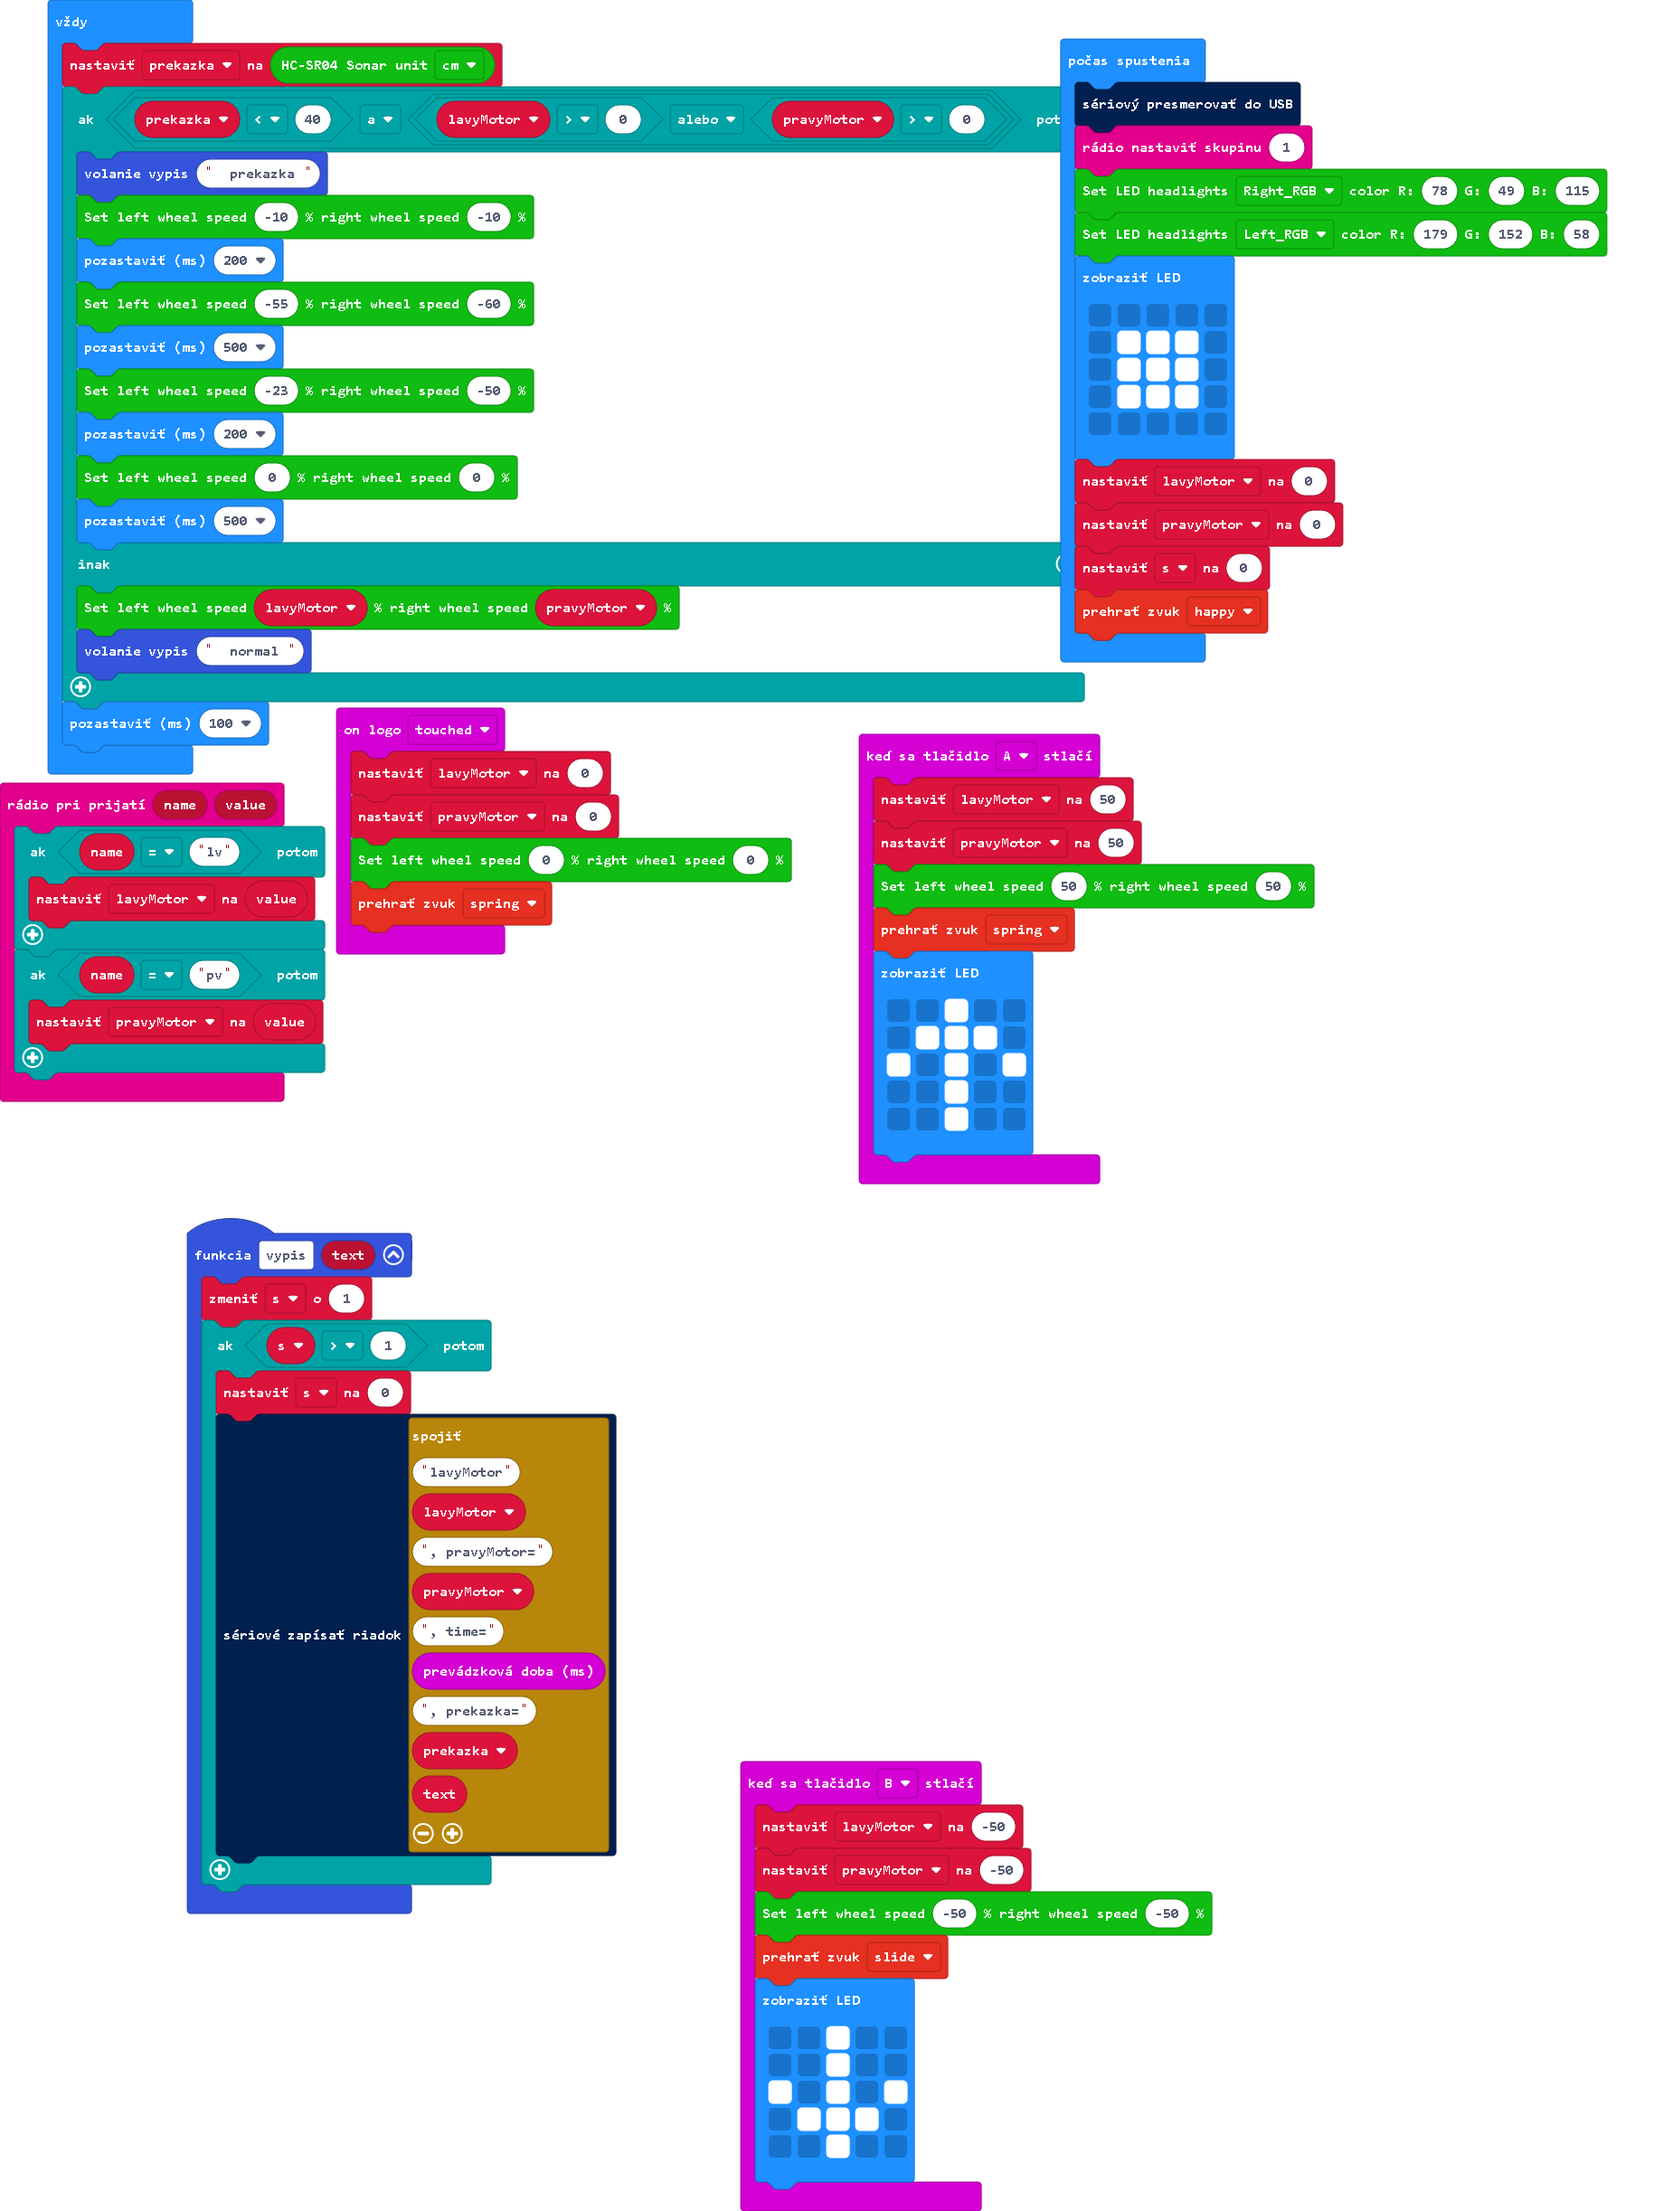
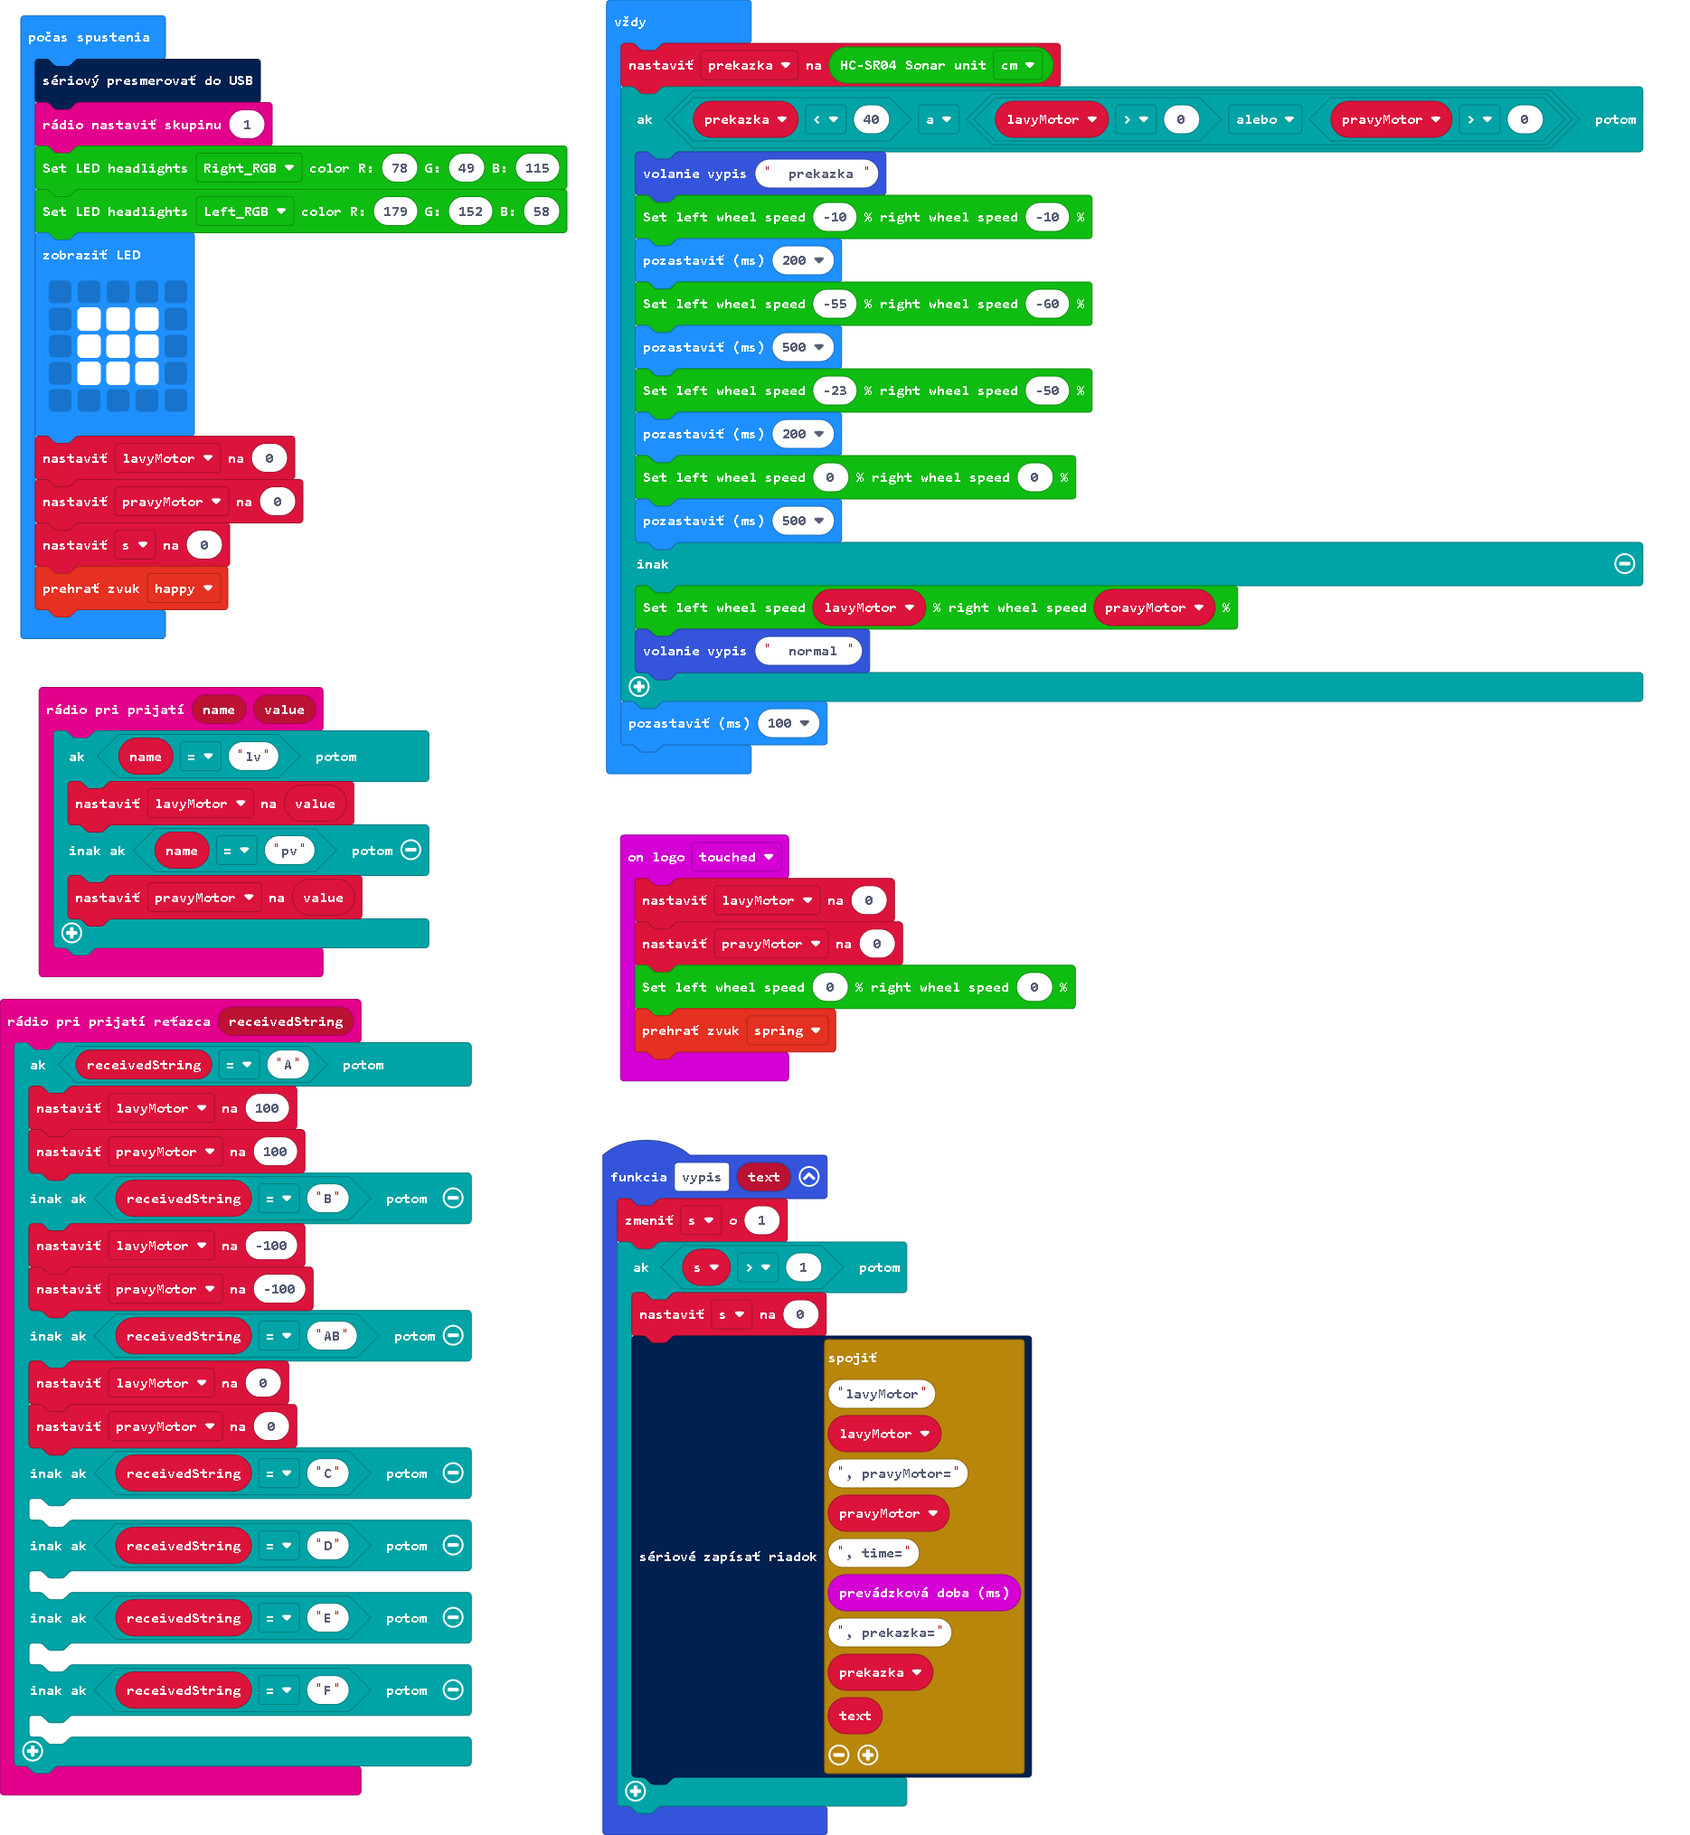
a2

diff --git a/main.ts b/main.ts
@@ -1,16 +1,3 @@
-input.onButtonPressed(Button.A, function () {
-    lavyMotor = 50
-    pravyMotor = 50
-    cuteBot.motors(50, 50)
-    soundExpression.spring.play()
-    basic.showLeds(`
-        . . # . .
-        . # # # .
-        # . # . #
-        . . # . .
-        . . # . .
-        `)
-})
 function vypis (text: string) {
     s += 1
     if (s > 1) {
@@ -18,24 +5,30 @@ function vypis (text: string) {
         serial.writeLine("lavyMotor" + lavyMotor + ", pravyMotor=" + pravyMotor + ", time=" + input.runningTime() + ", prekazka=" + prekazka + text)
     }
 }
-input.onButtonPressed(Button.B, function () {
-    lavyMotor = -50
-    pravyMotor = -50
-    cuteBot.motors(-50, -50)
-    soundExpression.slide.play()
-    basic.showLeds(`
-        . . # . .
-        . . # . .
-        # . # . #
-        . # # # .
-        . . # . .
-        `)
+radio.onReceivedString(function (receivedString) {
+    if (receivedString == "A") {
+        lavyMotor = 100
+        pravyMotor = 100
+    } else if (receivedString == "B") {
+        lavyMotor = -100
+        pravyMotor = -100
+    } else if (receivedString == "AB") {
+        lavyMotor = 0
+        pravyMotor = 0
+    } else if (receivedString == "C") {
+    	
+    } else if (receivedString == "D") {
+    	
+    } else if (receivedString == "E") {
+    	
+    } else if (receivedString == "F") {
+    	
+    }
 })
 radio.onReceivedValue(function (name, value) {
     if (name == "lv") {
         lavyMotor = value
-    }
-    if (name == "pv") {
+    } else if (name == "pv") {
         pravyMotor = value
     }
 })
